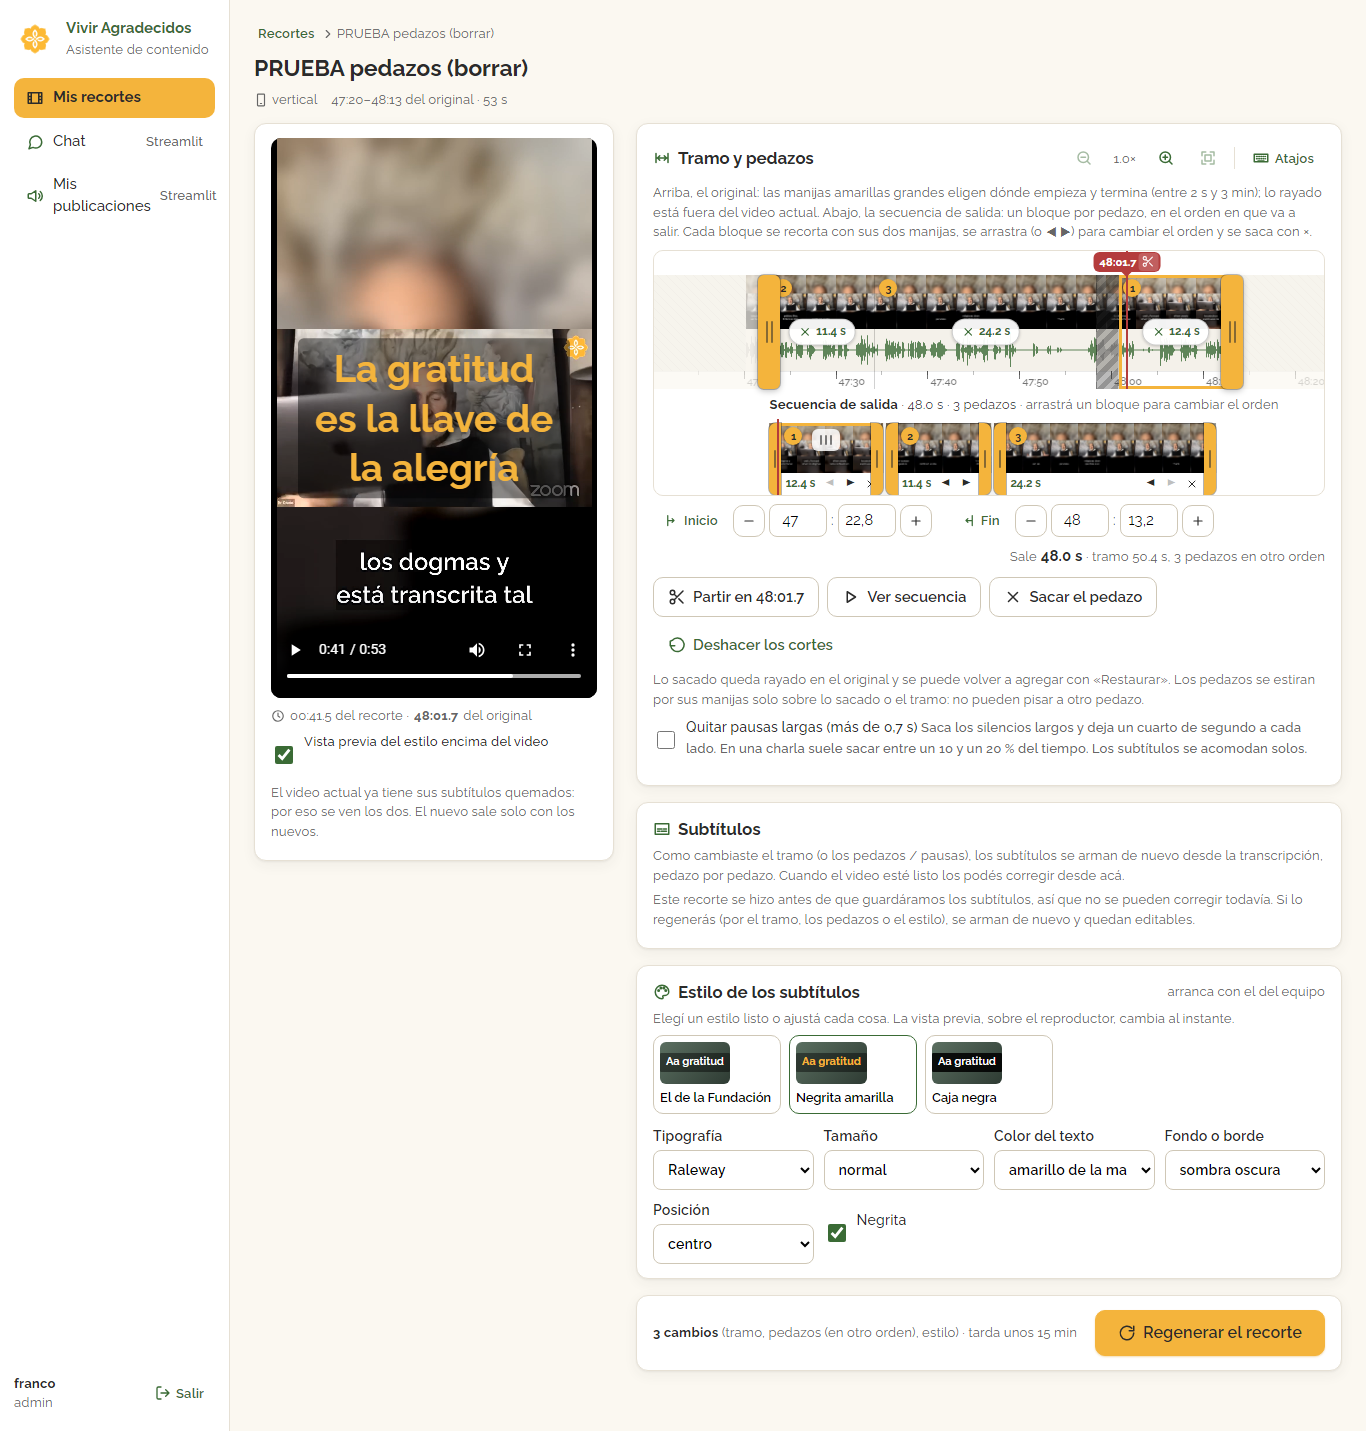
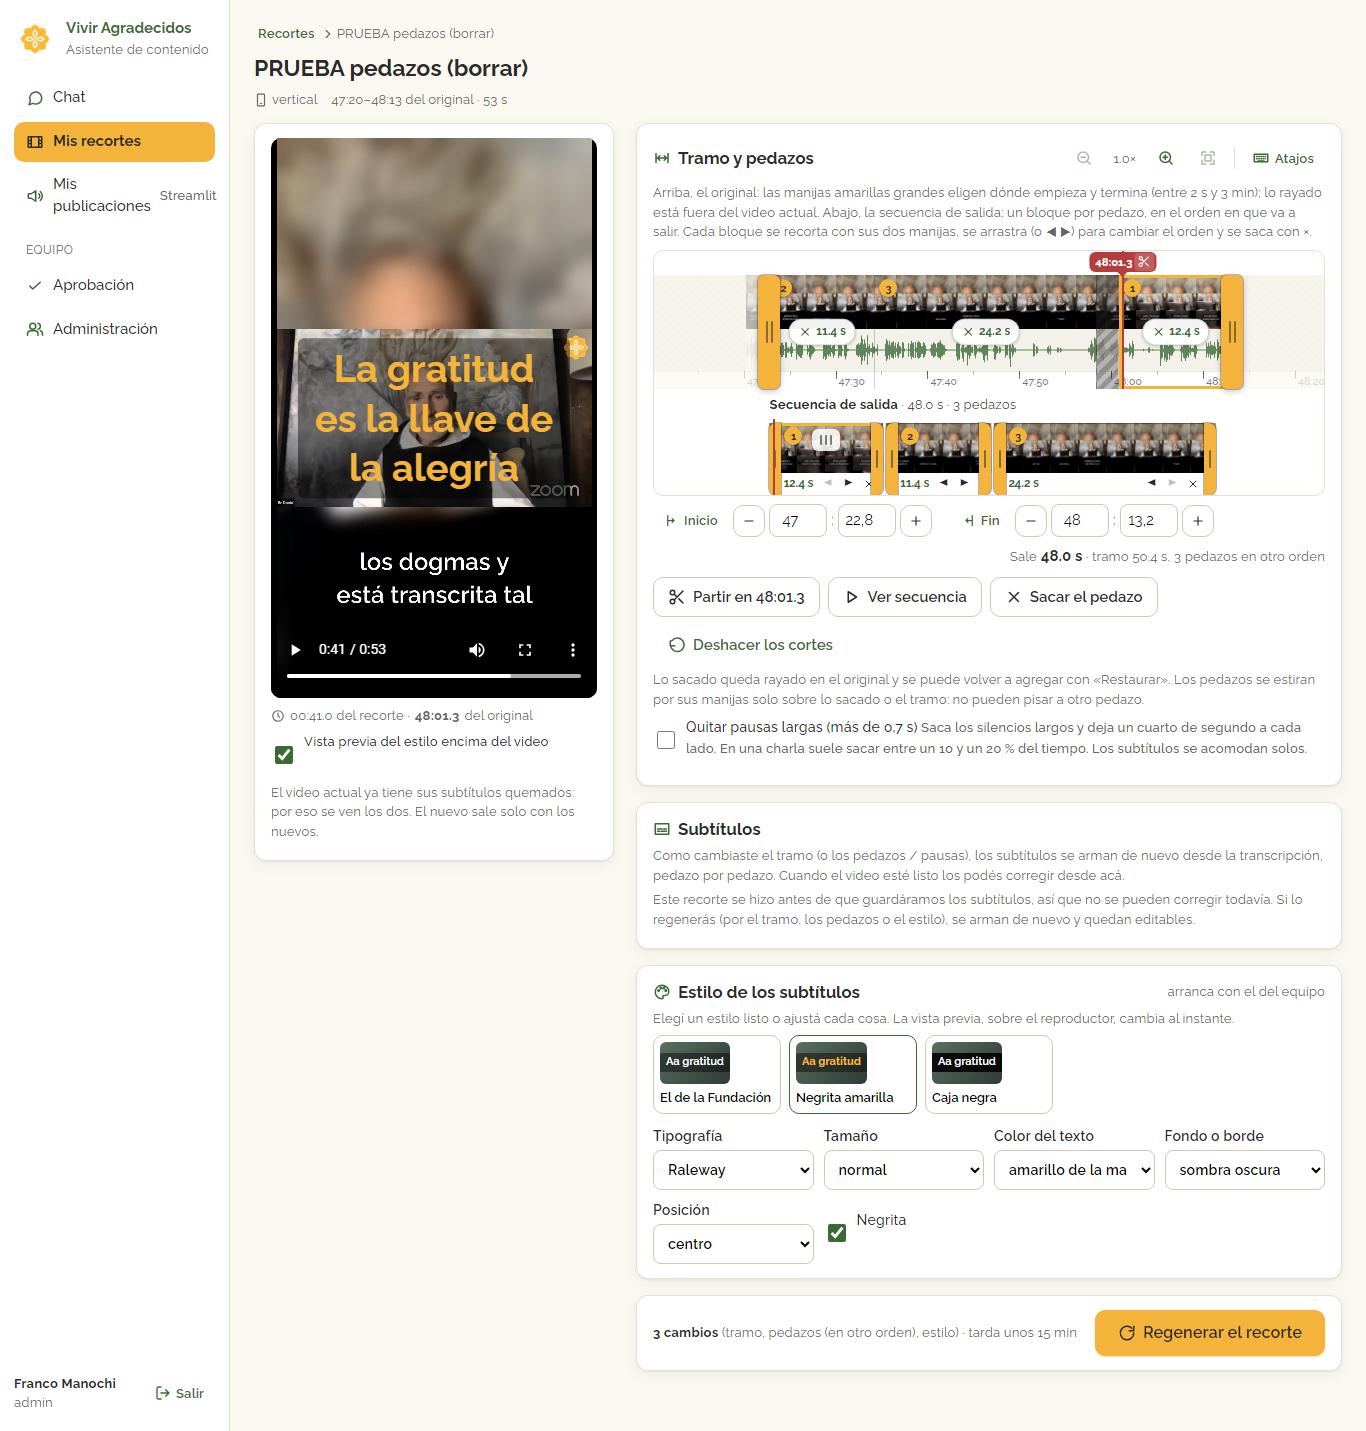
Web: arreglo de la secuencia de salida rota en producción (CSS perdido en el merge) + layout y arrastre
- estilos.css: al mergear la rama se habían perdido las dos llaves finales y las reglas de la secuencia quedaron adentro de un
  @media (max-width: 760px) anidado: los bloques salían apilados, sin manijas ni agarre. Restauradas.
- El editor pasa a una sola columna hasta 1000 px (con la barra lateral, la línea de tiempo quedaba en ~100 px entre 760 y 1000).
- Mientras se arrastra un bloque, los demás se corren y abren un hueco del tamaño del bloque donde va a caer (más la marca roja).
- El arrastre para reordenar arranca desde cualquier parte del bloque, con mouse y touch (touch-action: none en el bloque).
- Bloques de al menos 60 px, pie con lugar para las manijas, pista del título solo en carriles anchos.
- El cabezal se actualiza con seeked/timeupdate además del rAF (se frena con la pestaña oculta); atajos robustos a eventos
  disparados sobre window.
- Verificado en 600, 640, 800, 1000 y 1366 px con un recorte horizontal y uno vertical, con 2 y 3 pedazos; capturas regeneradas.

diff --git a/web/src/componentes/LineaTiempo.tsx b/web/src/componentes/LineaTiempo.tsx
@@ -64,7 +64,7 @@ const ALTO = ALTO_MINI + ALTO_ONDA + ALTO_REGLA;
 const SEP = 34; // entre el original y la secuencia (título del carril)
 const ALTO_SEC = 72; // bloques de la secuencia (miniatura + etiqueta)
 const ALTO_SEC_MINI = 50;
-const MIN_BLOQUE = 30; // px: que siempre entren las dos manijas
+const MIN_BLOQUE = 60; // px: que siempre entren las dos manijas y la duración
 const GAP = 3;
 const Y_SEC = CARRIL + ALTO + SEP;
 
@@ -418,20 +418,34 @@ export default function LineaTiempo(p: Props) {
   };
 
   const moviendo = arrastre?.tipo === "mover" && arrastre.activo ? arrastre : null;
-  // dónde caería el bloque que se arrastra (marca de inserción)
+  // Mientras se arrastra un bloque, los demás se corren para abrir un hueco del tamaño del bloque donde caería (y una marca roja
+  // lo señala): así se ve dónde va a quedar antes de soltar. `vista` es la geometría que se dibuja; `geo` la real.
   let marcaX: number | null = null;
+  let vista = geo;
   if (moviendo) {
+    const movido = geo.find((b) => b.id === moviendo.id);
     const otros = geo.filter((b) => b.id !== moviendo.id);
     const lugar = otros.filter((b) => b.left + b.width / 2 < moviendo.x).length;
-    if (!otros.length) marcaX = null;
-    else marcaX = lugar < otros.length ? otros[lugar].left - GAP / 2 : otros[otros.length - 1].left + otros[otros.length - 1].width + GAP / 2;
+    const hueco = (movido?.width ?? MIN_BLOQUE) + GAP;
+    let left = x(p.ini);
+    vista = [];
+    otros.forEach((b, i) => {
+      if (i === lugar) {
+        marcaX = left - GAP / 2;
+        left += hueco;
+      }
+      vista.push({ ...b, left });
+      left += b.width + GAP;
+    });
+    if (lugar >= otros.length) marcaX = left - GAP / 2;
+    if (movido) vista.push(movido);
   }
   const durSalida = geo.reduce((s, b) => s + (b.pieza.b - b.pieza.a), 0);
   const ultimoBloque = geo.length ? geo[geo.length - 1].left + geo[geo.length - 1].width : x(p.ini);
 
   return (
     <div className="linea-marco" ref={marco}>
-      <div className="linea" ref={ref} onClick={clic} style={{ width: anchoTotal, height: Y_SEC + ALTO_SEC }}>
+      <div className="linea" ref={ref} onClick={clic} style={{ width: Math.max(anchoTotal, ultimoBloque + 8), height: Y_SEC + ALTO_SEC }}>
         <canvas ref={canvas} style={{ width: anchoTotal, height: ALTO + SEP + ALTO_SEC, top: CARRIL }} />
         {/* ---------- original: pedazos conservados / sacados ---------- */}
         {p.piezas.map((z) => (
@@ -489,10 +503,11 @@ export default function LineaTiempo(p: Props) {
         <div className="sec-titulo chico" style={{ left: x(p.ini), top: CARRIL + ALTO + 6 }}>
           <strong>Secuencia de salida</strong> · {(durSalida / 1000).toFixed(1)} s ·{" "}
           {geo.length === 1 ? "1 pedazo" : `${geo.length} pedazos`}
-          {geo.length > 1 && <span className="suave"> · arrastrá un bloque para cambiar el orden</span>}
+          {geo.length > 1 && ancho >= 700 && <span className="suave"> · arrastrá un bloque para cambiar el orden</span>}
         </div>
         <div className="sec-fondo" style={{ left: x(p.ini), width: Math.max(0, ultimoBloque - x(p.ini)), top: Y_SEC, height: ALTO_SEC }} />
-        {geo.map((b, i) => {
+        {vista.map((b) => {
+          const i = geo.findIndex((g) => g.id === b.id);
           const z = b.pieza;
           const esMovido = moviendo?.id === z.id;
           const sel = p.seleccion === z.id;
@@ -501,16 +516,16 @@ export default function LineaTiempo(p: Props) {
           return (
             <div
               key={z.id}
-              className={"bloque" + (sel ? " seleccionado" : "") + (esMovido ? " movido" : "") + (b.width < 70 ? " angosto" : "")}
-              style={{ left: b.left, width: b.width, top: Y_SEC, height: ALTO_SEC, transform: esMovido ? `translateX(${moviendo!.x - moviendo!.x0}px)` : undefined }}
+              className={"bloque" + (sel ? " seleccionado" : "") + (esMovido ? " movido" : "") + (b.width < 96 ? " angosto" : "")}
+              style={{ left: b.left, width: b.width, top: Y_SEC, height: ALTO_SEC, transform: esMovido ? `translateX(${moviendo!.x - moviendo!.x0}px)` : undefined, transition: moviendo && !esMovido ? "left 120ms" : undefined }}
               role="group"
               aria-label={`Pedazo ${i + 1}: ${mmss(z.a, 1)} a ${mmss(z.b, 1)} del original, ${dur.toFixed(1)} s`}
               tabIndex={0}
               onFocus={() => p.onSeleccion(z.id)}
               onClick={(e) => e.stopPropagation()}
               onPointerDown={(e) => {
-                // con mouse, todo el bloque se arrastra; en touch solo el agarre (así el carril se puede desplazar con el dedo)
-                if (e.button !== 0 || e.pointerType !== "mouse") return;
+                // todo el bloque se arrastra (mouse y touch; el carril se desplaza con el dedo desde el original o la barra)
+                if (e.button !== 0) return;
                 e.preventDefault();
                 e.stopPropagation();
                 (e.currentTarget as HTMLElement).focus();

diff --git a/web/src/estilos.css b/web/src/estilos.css
@@ -1236,6 +1236,24 @@ input[type="number"] {
 }
 
 /* ---------- celular ---------- */
+@media (max-width: 1000px) {
+  /* (22/10) con la barra lateral, la grilla de dos columnas dejaba la línea de tiempo en ~100 px entre 760 y 1000 px: una sola columna */
+  .editor-grilla {
+    grid-template-columns: 1fr;
+    grid-template-areas:
+      "video"
+      "tramo"
+      "subs"
+      "estilo"
+      "regenerar";
+  }
+  .editor-video {
+    position: static;
+  }
+  .reproductor.vertical video {
+    max-height: 55vh;
+  }
+}
 @media (max-width: 760px) {
   .app {
     flex-direction: column;
@@ -1283,21 +1301,6 @@ input[type="number"] {
   }
   .recorte-mini {
     flex: none;
-  }
-  .editor-grilla {
-    grid-template-columns: 1fr;
-    grid-template-areas:
-      "video"
-      "tramo"
-      "subs"
-      "estilo"
-      "regenerar";
-  }
-  .editor-video {
-    position: static;
-  }
-  .reproductor.vertical video {
-    max-height: 55vh;
   }
   .control-tiempo input {
     width: 52px;
@@ -1755,6 +1758,9 @@ input[type="number"] {
   }
   .barra-grupo {
     display: none;
+  }
+}
+
 /* ---------- secuencia de salida (22/10: cada pedazo es una pieza propia) ---------- */
 .pieza-num {
   position: absolute;
@@ -1790,6 +1796,7 @@ input[type="number"] {
   border-radius: 7px;
   overflow: visible;
   cursor: grab;
+  touch-action: none;
   box-shadow: inset 0 0 0 1px rgba(0, 0, 0, 0.35);
   background: transparent;
   z-index: 2;
@@ -1867,7 +1874,7 @@ input[type="number"] {
   align-items: center;
   justify-content: space-between;
   gap: 4px;
-  padding: 0 14px 0 16px;
+  padding: 0 13px 0 14px;
   background: #fff;
   border-radius: 0 0 7px 7px;
   font-size: 0.72rem;

diff --git a/web/src/paginas/Editor.tsx b/web/src/paginas/Editor.tsx
@@ -275,7 +275,7 @@ function EditorCargado({ det, opciones }: { det: Detalle; opciones: Opciones }) 
       if (ayuda || (t && (t.tagName === "INPUT" || t.tagName === "SELECT" || t.tagName === "TEXTAREA" || t.isContentEditable))) return;
       if (e.ctrlKey || e.metaKey || e.altKey) return;
       const k = e.key;
-      const esManija = t?.classList.contains("manija") || t?.classList.contains("bloque-manija");
+      const esManija = !!t?.classList?.contains("manija") || !!t?.classList?.contains("bloque-manija");
       if (k === " ") {
         e.preventDefault();
         alternarReproduccion();
@@ -416,6 +416,8 @@ function EditorCargado({ det, opciones }: { det: Detalle; opciones: Opciones }) 
               controls
               playsInline
               onLoadedMetadata={(e) => setDuracion(e.currentTarget.duration || duracion)}
+              onSeeked={(e) => setTiempo(e.currentTarget.currentTime)}
+              onTimeUpdate={(e) => setTiempo(e.currentTarget.currentTime)}
               onPlay={() => setReproduciendo(true)}
               onPause={() => {
                 setReproduciendo(false);

diff --git a/web/UX-REVISION.md b/web/UX-REVISION.md
@@ -109,5 +109,13 @@ el arrastre sale solo desde el agarre (⋮⋮) para no bloquear el desplazamient
 la vista; las burbujas de tiempo de los bloques solo aparecen al arrastrar. Las manijas de un bloque mueven el valor por
 diferencia de píxeles (el bloque no está donde el pedazo en el original).
 
+**Arreglos después de publicar (22/10, tarde).** Franco vio la secuencia rota en producción (bloques apilados, sin manijas): al
+mergear la rama se habían perdido las dos llaves finales de `estilos.css` y todas las reglas nuevas quedaron adentro de un
+`@media (max-width: 760px)` anidado. Además: el editor pasa a una sola columna hasta 1000 px (con la barra lateral, la línea de
+tiempo quedaba en ~100 px entre 760 y 1000); mientras se arrastra un bloque los demás se corren y abren un hueco donde va a caer
+(además de la marca roja); el arrastre arranca desde cualquier parte del bloque también en touch; ancho mínimo de bloque 60 px;
+el cabezal se actualiza con `seeked`/`timeupdate` además del rAF (que se frena con la pestaña oculta). Verificado en 600, 640,
+800, 1000 y 1366 px con un recorte horizontal y uno vertical, con 2 y 3 pedazos.
+
 **Qué quedó fuera.** Deshacer/rehacer general; duplicar un pedazo (el modelo exige que cada instante salga una sola vez);
 arrastrar un pedazo sacado directamente a la secuencia (hoy: «Restaurar» y después mover); transiciones entre pedazos.
